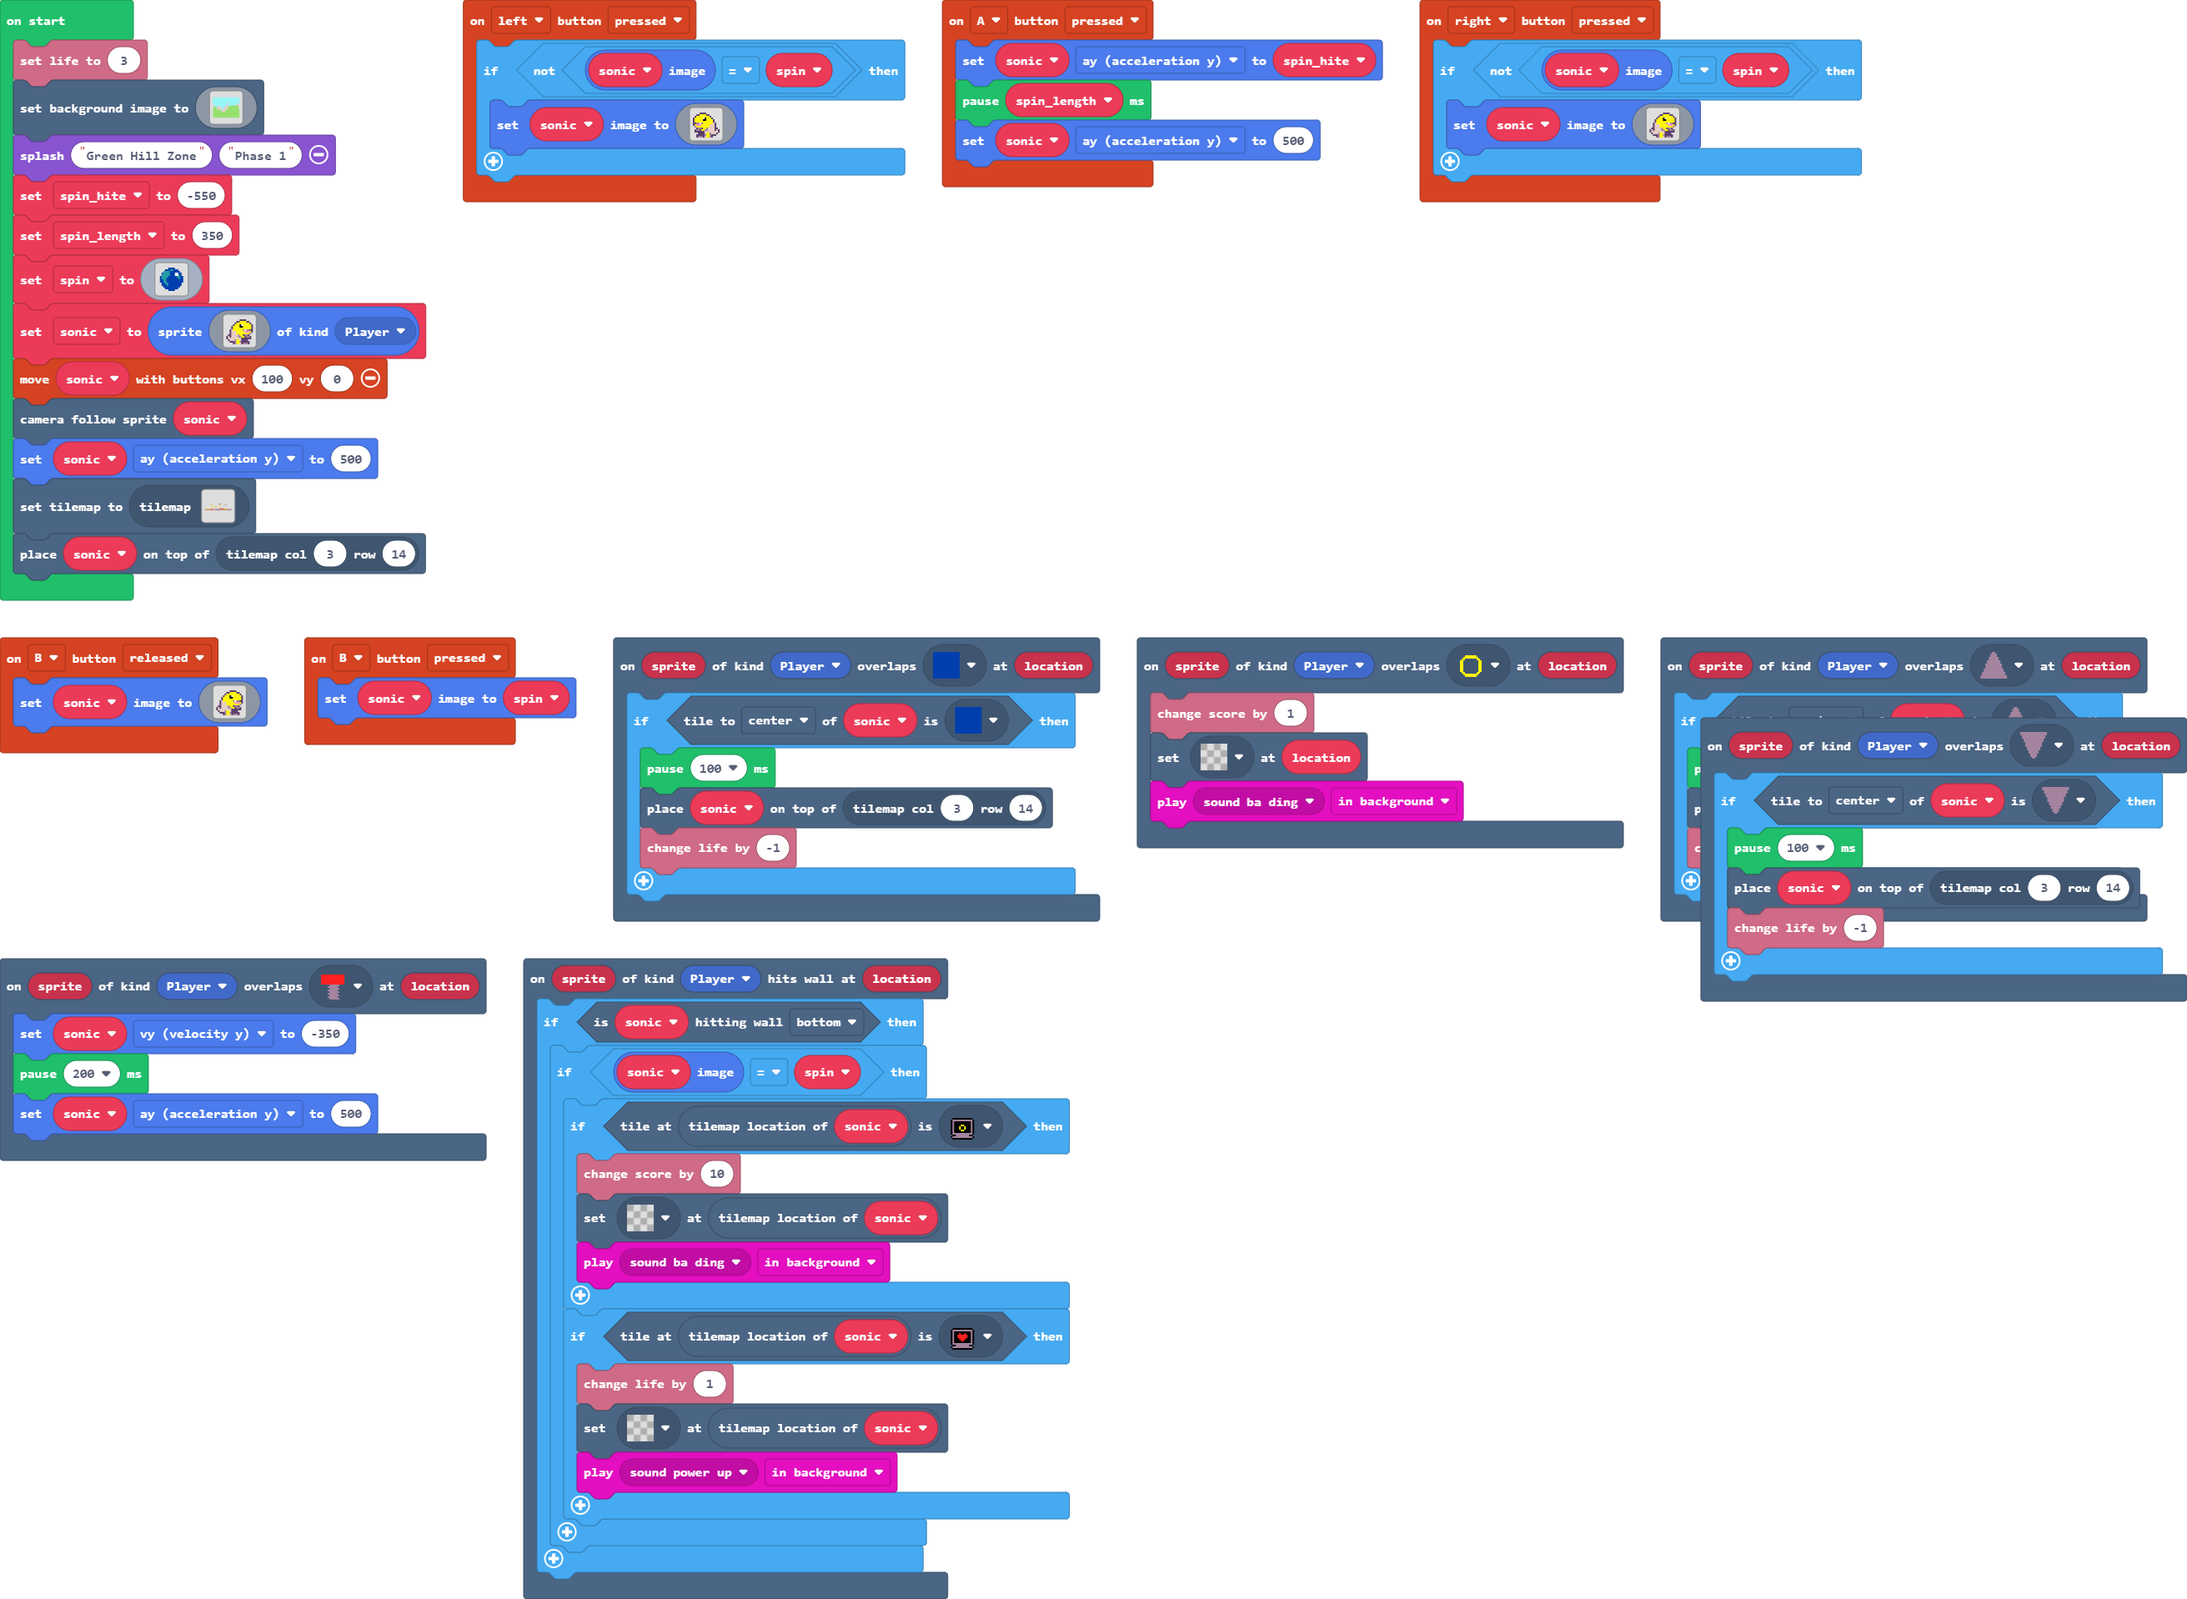
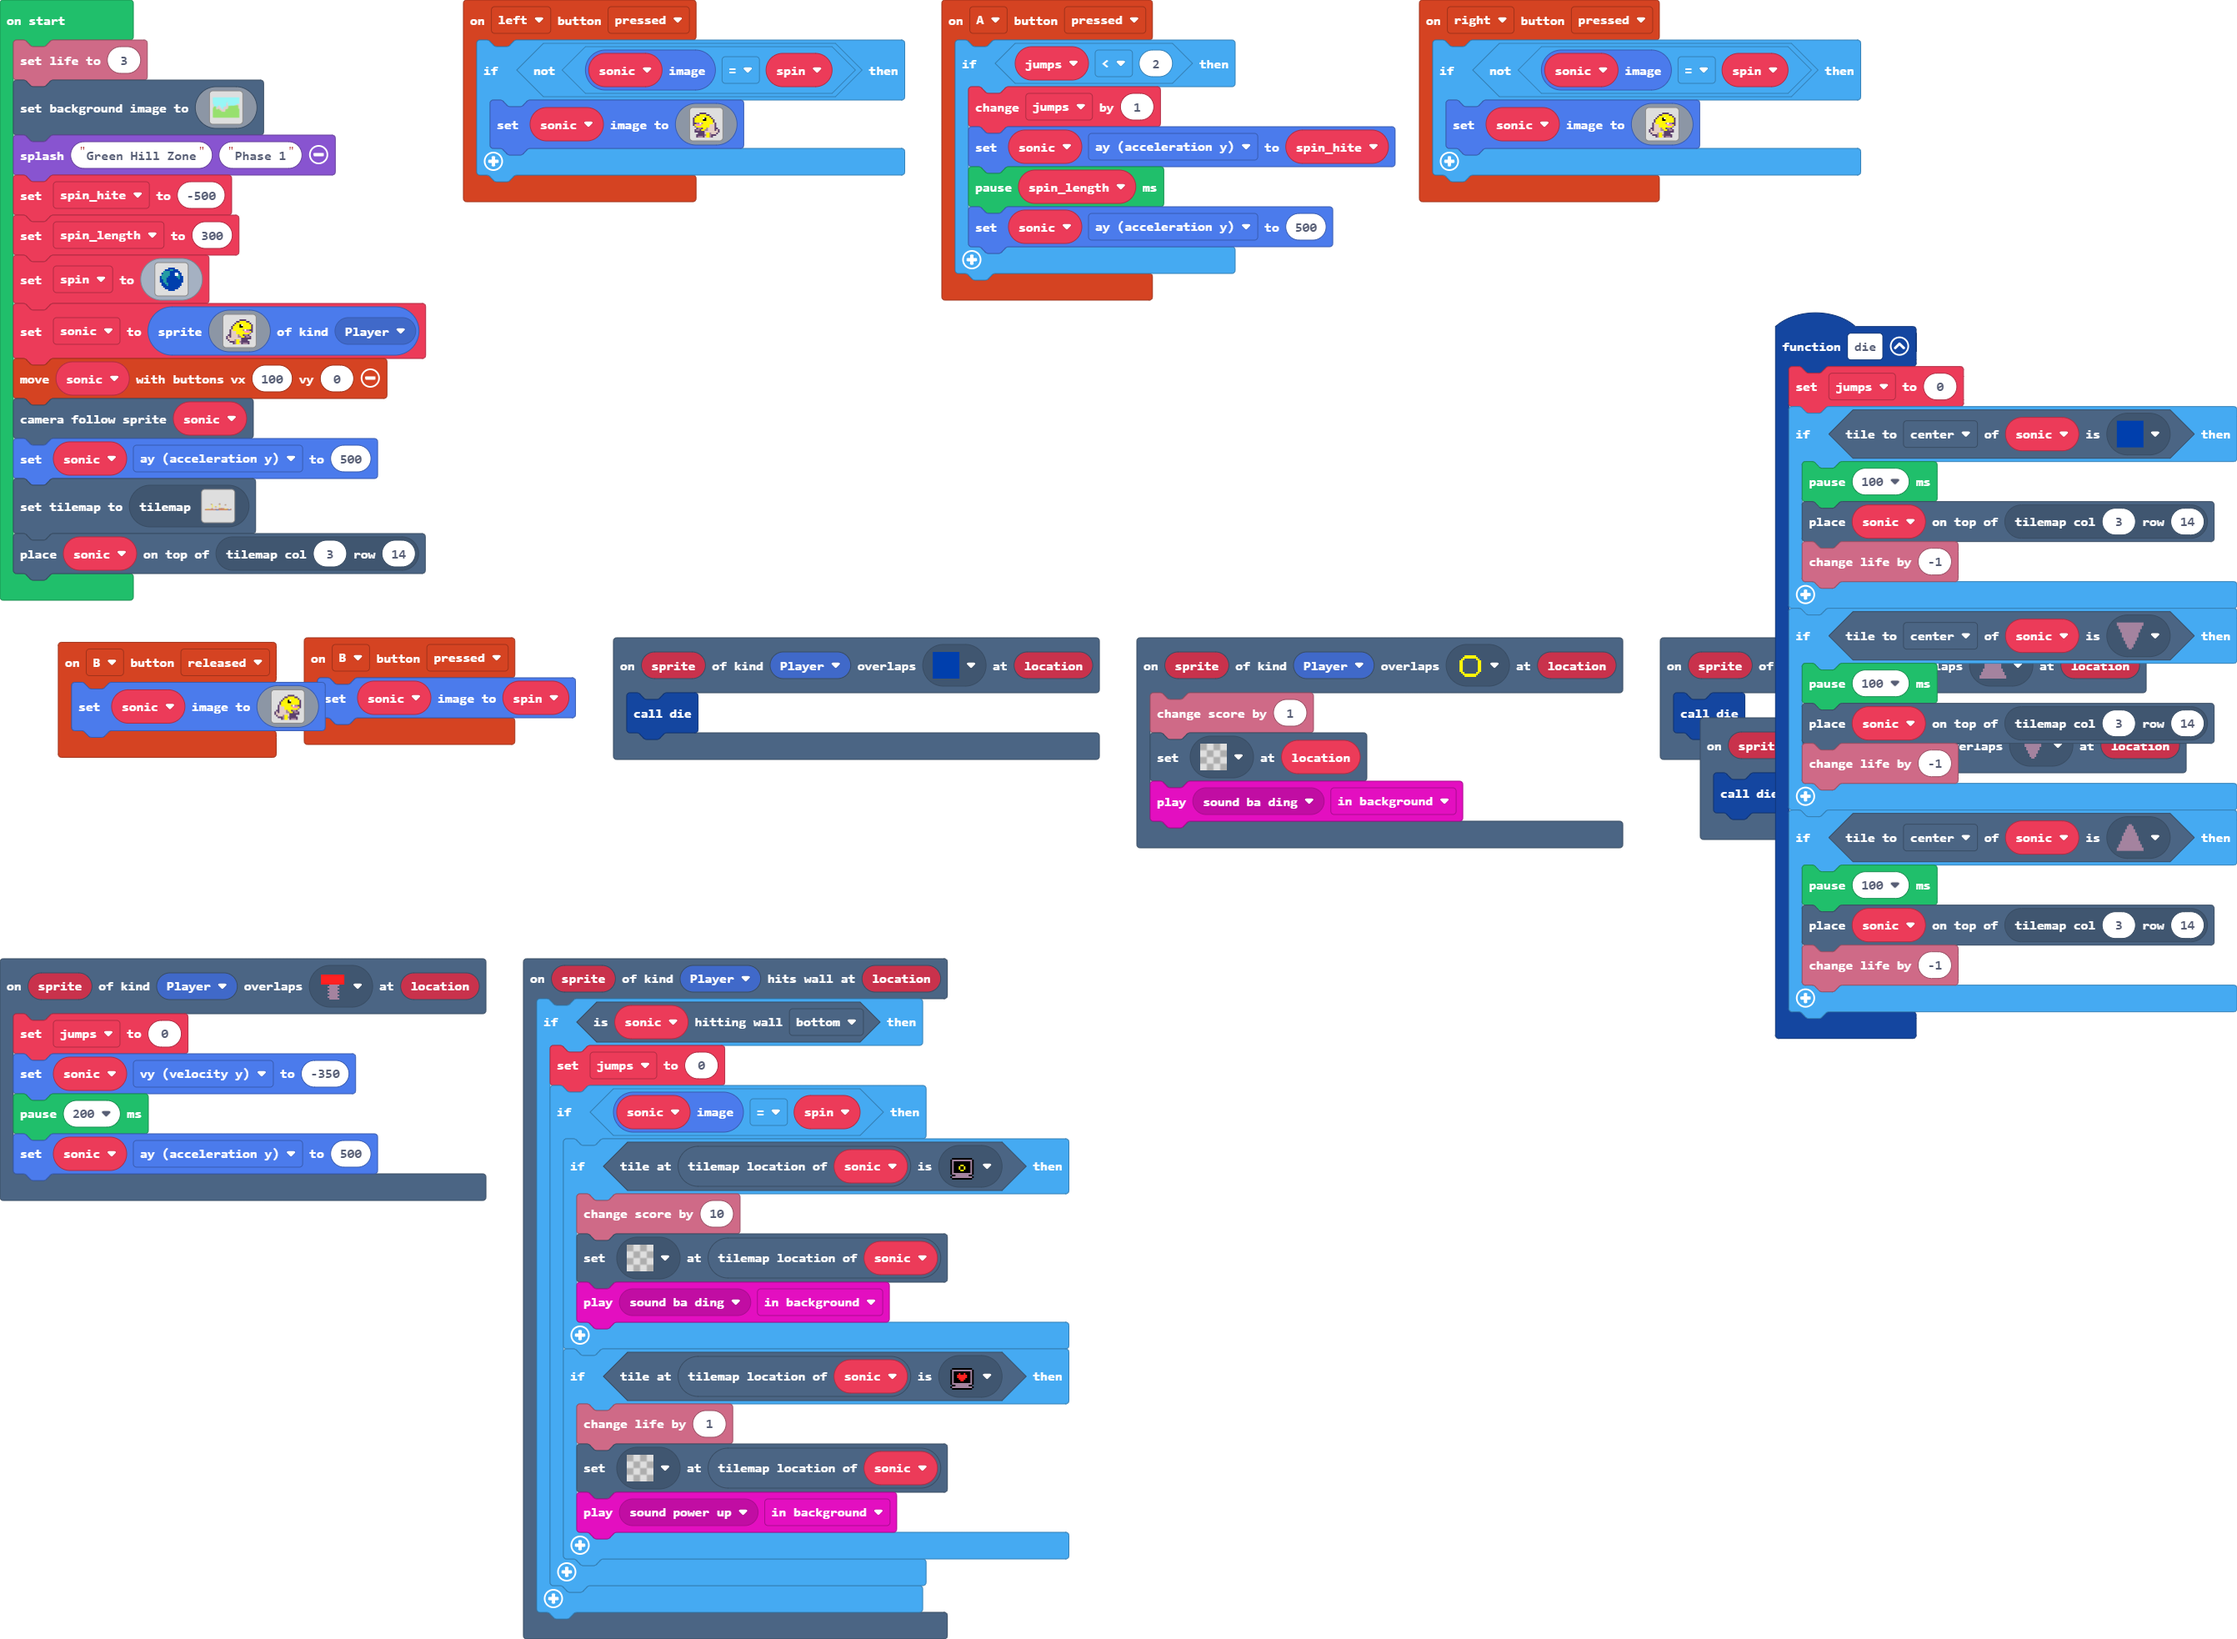
Update main.blocks, main.ts, tilemap.g.jres, tilemap.g.ts

Changed region(s): [[0.0, 0.0, 1.0, 1.0], [0.1853, 0.0, 0.8647, 0.1846]]

diff --git a/main.ts b/main.ts
@@ -1,5 +1,6 @@
 scene.onHitWall(SpriteKind.Player, function (sprite, location) {
     if (sonic.isHittingTile(CollisionDirection.Bottom)) {
+        jumps = 0
         if (sonic.image == spin) {
             if (tiles.tileAtLocationEquals(sonic.tilemapLocation(), assets.tile`myTile0`)) {
                 info.changeScoreBy(10)
@@ -23,49 +24,60 @@ scene.onOverlapTile(SpriteKind.Player, assets.tile`myTile`, function (sprite, lo
     music.play(music.melodyPlayable(music.baDing), music.PlaybackMode.InBackground)
 })
 controller.A.onEvent(ControllerButtonEvent.Pressed, function () {
-    sonic.ay = spin_hite
-    pause(spin_length)
-    sonic.ay = 500
+    if (jumps < 2) {
+        jumps += 1
+        sonic.ay = spin_hite
+        pause(spin_length)
+        sonic.ay = 500
+    }
 })
 scene.onOverlapTile(SpriteKind.Player, assets.tile`myTile7`, function (sprite, location) {
-    if (sonic.tileKindAt(TileDirection.Center, assets.tile`myTile7`)) {
-        pause(100)
-        tiles.placeOnTile(sonic, tiles.getTileLocation(3, 14))
-        info.changeLifeBy(-1)
-    }
+    die()
 })
 controller.left.onEvent(ControllerButtonEvent.Pressed, function () {
     if (!(sonic.image == spin)) {
         sonic.setImage(assets.image`sonicL`)
     }
 })
+function die () {
+    jumps = 0
+    if (sonic.tileKindAt(TileDirection.Center, assets.tile`myTile7`)) {
+        pause(100)
+        tiles.placeOnTile(sonic, tiles.getTileLocation(3, 14))
+        info.changeLifeBy(-1)
+    }
+    if (sonic.tileKindAt(TileDirection.Center, assets.tile`myTile8`)) {
+        pause(100)
+        tiles.placeOnTile(sonic, tiles.getTileLocation(3, 14))
+        info.changeLifeBy(-1)
+    }
+    if (sonic.tileKindAt(TileDirection.Center, assets.tile`myTile5`)) {
+        pause(100)
+        tiles.placeOnTile(sonic, tiles.getTileLocation(3, 14))
+        info.changeLifeBy(-1)
+    }
+}
 controller.right.onEvent(ControllerButtonEvent.Pressed, function () {
     if (!(sonic.image == spin)) {
         sonic.setImage(assets.image`sonicR`)
     }
 })
 scene.onOverlapTile(SpriteKind.Player, assets.tile`myTile8`, function (sprite, location) {
-    if (sonic.tileKindAt(TileDirection.Center, assets.tile`myTile8`)) {
-        pause(100)
-        tiles.placeOnTile(sonic, tiles.getTileLocation(3, 14))
-        info.changeLifeBy(-1)
-    }
+    die()
 })
 scene.onOverlapTile(SpriteKind.Player, assets.tile`myTile2`, function (sprite, location) {
+    jumps = 0
     sonic.vy = -350
     pause(200)
     sonic.ay = 500
 })
 scene.onOverlapTile(SpriteKind.Player, assets.tile`myTile5`, function (sprite, location) {
-    if (sonic.tileKindAt(TileDirection.Center, assets.tile`myTile5`)) {
-        pause(100)
-        tiles.placeOnTile(sonic, tiles.getTileLocation(3, 14))
-        info.changeLifeBy(-1)
-    }
+    die()
 })
 controller.B.onEvent(ControllerButtonEvent.Released, function () {
     sonic.setImage(assets.image`sonicR`)
 })
+let jumps = 0
 let sonic: Sprite = null
 let spin: Image = null
 let spin_length = 0
@@ -194,8 +206,8 @@ scene.setBackgroundImage(img`
     7777777777777777777777777777777777777777777777777777777777777777777777777777777777777777777777777777777777777777777777777777777777777777777777777777777777777777
     `)
 game.splash("Green Hill Zone", "Phase 1")
-spin_hite = -550
-spin_length = 350
+spin_hite = -500
+spin_length = 300
 spin = assets.image`spin`
 sonic = sprites.create(assets.image`sonicR`, SpriteKind.Player)
 controller.moveSprite(sonic, 100, 0)

diff --git a/tilemap.g.ts b/tilemap.g.ts
@@ -87,6 +87,25 @@ namespace myTiles {
 22222222222222222....22.2..2.22222222222222222222...222
 22222222222222222222222......2222222222222222222.....22
 `, [myTiles.transparency16,myTiles.tile1,myTiles.tile2,myTiles.tile3,myTiles.tile4,myTiles.tile5,myTiles.tile6,myTiles.tile7,myTiles.tile8,myTiles.tile9,myTiles.tile10,myTiles.tile12], TileScale.Sixteen);
+            case "level4":
+            case "level4":return tiles.createTilemap(hex`1000100000000000000000000000000000000000000000000000000000000000000000000000000000000000000000000000000000000000000000000000000000000000000000000000000000000000000000000000000000000000000000000000000000000000000000000000000000000000000000000000000000000000000000000000000000000000000000000000000000000000000000000000000000000000000000000000000000000000000000000000000000000000000000000000000000000000000000000000000000000000000000000000000000000000000000000000000000000000000000000000000000000000000000000000000000000000`, img`
+. . . . . . . . . . . . . . . . 
+. . . . . . . . . . . . . . . . 
+. . . . . . . . . . . . . . . . 
+. . . . . . . . . . . . . . . . 
+. . . . . . . . . . . . . . . . 
+. . . . . . . . . . . . . . . . 
+. . . . . . . . . . . . . . . . 
+. . . . . . . . . . . . . . . . 
+. . . . . . . . . . . . . . . . 
+. . . . . . . . . . . . . . . . 
+. . . . . . . . . . . . . . . . 
+. . . . . . . . . . . . . . . . 
+. . . . . . . . . . . . . . . . 
+. . . . . . . . . . . . . . . . 
+. . . . . . . . . . . . . . . . 
+. . . . . . . . . . . . . . . . 
+`, [myTiles.transparency16], TileScale.Sixteen);
         }
         return null;
     })
